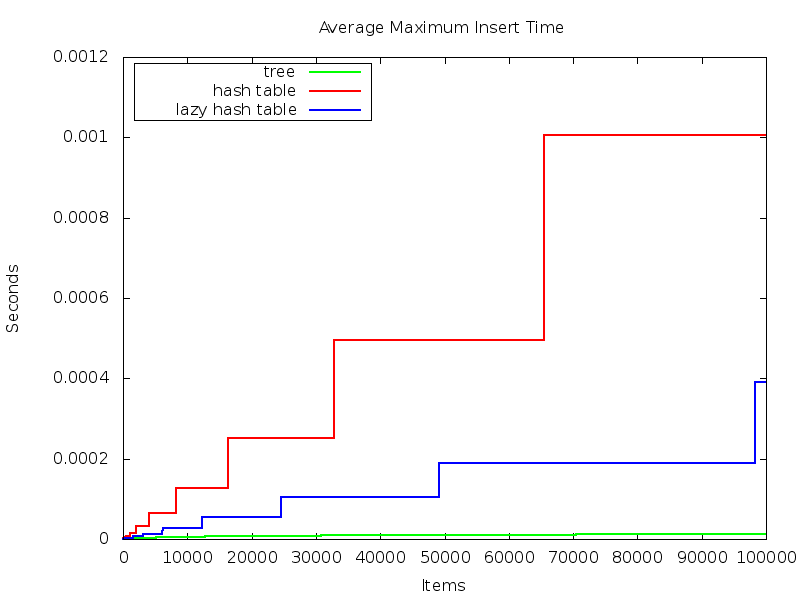
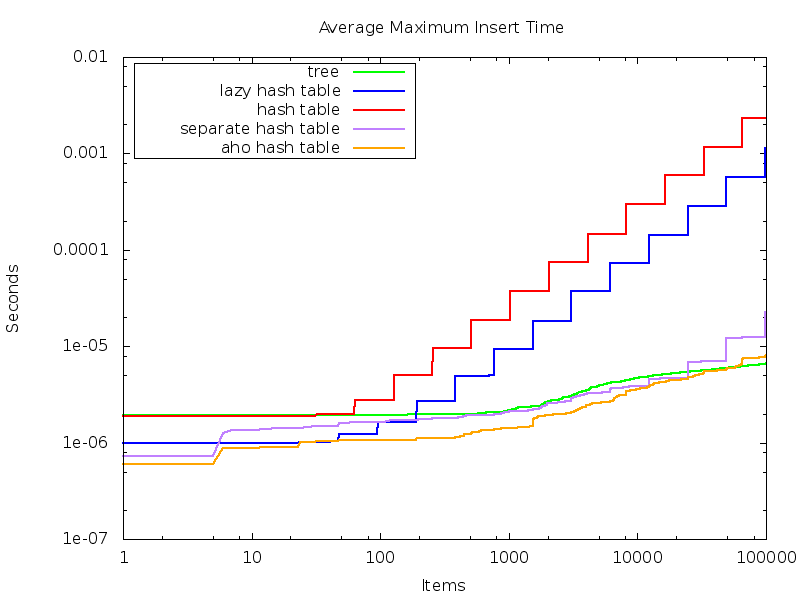
more variants of lazy initializing occupation status

diff --git a/src/lazy-linear.cc b/src/lazy-linear.cc
@@ -28,6 +28,10 @@ struct lazy_map {
     }
   }
 
+  bool is_occupied(const size_t i) const {
+    return data[i].occupied;
+  }
+
   lazy_map(const lazy_map&) = delete;
   lazy_map& operator=(const lazy_map&) = delete;
   
@@ -96,10 +100,155 @@ struct lazy_map {
 
 };
 
+struct BasicBitArray {
+  vector<bool> data;
+  BasicBitArray(const size_t n) : data(n, false) {}
+  BasicBitArray(const BasicBitArray&) = delete;
+  BasicBitArray& operator=(const BasicBitArray&) = delete;
+  bool check(const size_t& i) const {
+    return data[i];
+  }
+  void set(const size_t& i) {
+    data[i] = true;
+  }
+  void unset(const size_t& i) {
+    data[i] = true;
+  }
+  void swap(BasicBitArray * that) {
+    data.swap(that->data);
+  }
+};
 
-template<typename Key>
+struct AhoBitArray {
+  size_t count;
+  size_t* sparse;
+  size_t* dense;
+  AhoBitArray(const size_t n) 
+  : count(0), 
+    sparse(reinterpret_cast<size_t*>(malloc(n * sizeof(size_t)))),
+    dense(reinterpret_cast<size_t*>(malloc(n * sizeof(size_t)))) {}
+
+  AhoBitArray(const AhoBitArray&) = delete;
+  AhoBitArray& operator=(const AhoBitArray&) = delete;
+  bool check(const size_t& i) const {
+    return ((sparse[i] < count) and (dense[sparse[i]] == i));
+  }
+  void set(const size_t& i) {
+    if (check(i)) return;
+    dense[count] = i;
+    sparse[i] = count;
+    ++count;
+  }
+  void unset(const size_t& i) {
+    if (not check(i)) return;
+    dense[sparse[i]] = dense[count-1];
+    sparse[dense[count-1]] = i;
+    --count;
+  }
+  void swap(AhoBitArray * that) {
+    std::swap(count, that->count);
+    std::swap(sparse, that->sparse);
+    std::swap(dense, that->dense);
+  }
+  ~AhoBitArray() {
+    free(sparse); free(dense);
+  }
+};
+
+
+template<typename Key, typename BitArray>
+struct lazier_map {
+  struct slot {
+    Key key;
+  };
+  BitArray occupied;
+  slot * data;
+  size_t capacity, full;
+  lazier_map()
+    : occupied(0), data(0), capacity(0), full(0) {}
+  lazier_map(const size_t capacity)
+    // use malloc to allow Key type without default constructor
+    : occupied(capacity), data(reinterpret_cast<slot*>(malloc(sizeof(slot) * capacity))), 
+      capacity(capacity), full(0)
+  {
+  }
+
+  lazier_map(const lazier_map&) = delete;
+  lazier_map& operator=(const lazier_map&) = delete;
+  
+  // find a key in a nonempty table
+  size_t locate(const Key& k) {
+    assert (nullptr != data); assert (capacity > 0); assert (0 == (capacity & capacity-1));
+    const auto cap_mask = capacity-1;
+    auto h = hashf(k) & (cap_mask);
+    while (true) {
+      if (not occupied.check(h)) return h;
+      if (data[h].key == k) return h;
+      h = (h+1) & cap_mask;
+    }
+  }
+
+  // place a key
+  size_t place(const Key& k) {
+    assert (full < capacity);
+    const auto i = locate(k);
+    if (occupied.check(i)) return static_cast<size_t>(-1);
+    occupied.set(i);
+    data[i].key = k;
+    ++full;
+    return i;
+  }
+
+  // i < j <= k, mod capacity
+  bool cyclic_between(const size_t& i, const size_t& j, const size_t& k) const {
+    return (((i < j) and (j <= k))
+            or ((i < j) and (k < i))
+            or ((j <= k) and (k < i)));
+  }
+
+  void displace(const Key& k, lazier_map * that, const size_t limit) {
+    auto start = locate(k);
+    if (not occupied.check(start)) return;
+    occupied[start].unset();
+    const size_t ans = start;
+    --full;
+    auto i = (start + 1) & (capacity - 1);
+    while (occupied.check(i)) {
+      const auto h = hashf(data[i].key) & (capacity - 1);
+      if (not cyclic_between(start,h,i)) {
+        occupied.set(start);
+        data[start].key = data[i].key;
+        start = i;
+        occupied.unset(i);
+        if (that and (start < limit) and i >= limit) that->place(data[start].key);
+      }
+      i = (i+1) & (capacity - 1);
+    }
+  }
+  
+  void swap(lazier_map * that) {
+    std::swap(data, that->data);
+    std::swap(capacity, that->capacity);
+    std::swap(full, that->full);
+    occupied.swap(&that->occupied);
+  }
+
+  ~lazier_map() {
+    if (0 != data) {
+      free(data);
+      data = 0;
+    }
+  }
+
+  bool is_occupied(const size_t i) const {
+    return occupied.check(i);
+  }
+
+};
+
+template<typename Key, typename Base = lazier_map<Key, AhoBitArray> >
 struct quiet_map {
-  lazy_map<Key> here, there;
+  Base here, there;
   size_t progress;
   
   
@@ -107,26 +256,27 @@ struct quiet_map {
 
   void insert(const Key& k) {
     if (0 == here.capacity) {
-      lazy_map<Key> temp(16);
+      Base temp(16);
       here.swap(&temp);
     }
     size_t l = here.place(k);
     if (l < progress) there.place(k);
     if (here.full > (here.capacity * 3)/8) {
       if (there.capacity < 2*here.capacity) {
-        lazy_map<Key> temp(here.capacity *2);
+        Base temp(here.capacity *2);
         there.swap(&temp);
       }
       while ((progress < (here.full - (here.capacity * 3)/8)*8)
              and (progress < here.capacity)) {
-        if (here.data[progress].occupied) {
+        if (here.is_occupied(progress)) {
           there.place(here.data[progress].key);
         }
         ++progress;
       }
       if (here.full > here.capacity/2) {
         here.swap(&there);
-        there.~lazy_map<Key>();
+        Base temp;
+        there.swap(&temp);
         progress = 0;
       }
     }
@@ -134,7 +284,7 @@ struct quiet_map {
         and (here.capacity > 16)) {
       while ((progress < ((here.capacity * 3)/16 - here.full)*16)
              and (progress < here.capacity)) {
-        if (here.data[progress].occupied) {
+        if (here.is_occupied(progress)) {
           there.place(here.data[progress].key);
         }
         ++progress;

diff --git a/src/benchmark/insert-maxtime.cc b/src/benchmark/insert-maxtime.cc
@@ -41,7 +41,7 @@ void print_test(std::vector<std::pair<unsigned, double> > x) {
 
 int main(int argc, char ** argv) {
   unsigned size = 100000;//00;
-  unsigned samples = 1000;
+  unsigned samples = 100;
   if (4 == argc) {
     size = read<unsigned>(argv[2]);
     samples = read<unsigned>(argv[3]);
@@ -55,7 +55,11 @@ int main(int argc, char ** argv) {
   } else if ("hash" == container_type_string) {
     print_test(test<hash_map<sample_type> >(size, samples));
   } else if ("lazy" == container_type_string) {
-    print_test(test<quiet_map<sample_type> >(size, samples));
+    print_test(test<quiet_map<sample_type, lazy_map<sample_type> > >(size, samples));
+  } else if ("separate" == container_type_string) {
+    print_test(test<quiet_map<sample_type, lazier_map<sample_type, BasicBitArray> > >(size, samples));
+  } else if ("aho" == container_type_string) {
+    print_test(test<quiet_map<sample_type, lazier_map<sample_type, AhoBitArray> > >(size, samples));
   } else {
     std::cerr << "No test";
   }
